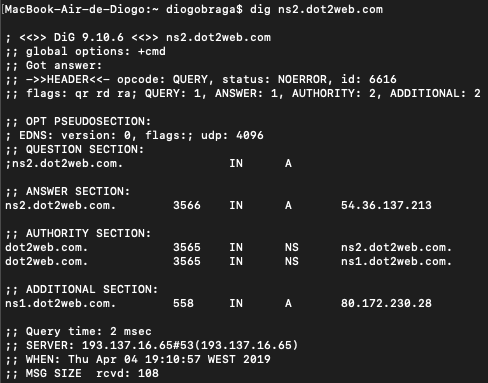
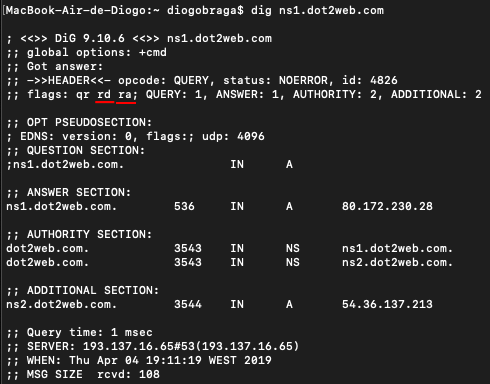
tp3 report done

diff --git a/TP3/Report/CC-TP3-PL26.tex b/TP3/Report/CC-TP3-PL26.tex
@@ -56,6 +56,8 @@ PL2, Grupo 6
 \end{figure}
 
 
+\newpage
+
 Fazendo o mesmo para o servidor \textbf{www.google.com.}, é possível verificar que também existem endereços IPv6. Estes endereços são os mesmos que os apresentados para o www.google.pt..
 
 \begin{figure}[H]
@@ -76,6 +78,9 @@ Fazendo o mesmo para o servidor \textbf{www.google.com.}, é possível verificar
 \caption{\label{fig:31}Nslookup NS \textbf{ccg.pt.}}
 \end{figure}
 
+
+\newpage
+
 Quanto ao domínio \textbf{pt.}, os nomes definidos para os servidores estão definidos dentro da secção vermelha representada na figura \ref{fig:32}.
 
 \begin{figure}[H]
@@ -84,6 +89,8 @@ Quanto ao domínio \textbf{pt.}, os nomes definidos para os servidores estão de
 \end{center}
 \caption{\label{fig:32}Nslookup NS \textbf{pt.}}
 \end{figure}
+
+\newpage
 
 Na figura \ref{fig:33} é possível concluir quais são os nomes definidos para os servidores do domínio \textbf{.}. Tais estão representados na secção vermelha.
 
@@ -94,6 +101,8 @@ Na figura \ref{fig:33} é possível concluir quais são os nomes definidos para 
 \caption{\label{fig:33}Nslookup NS \textbf{.}}
 \end{figure}
 
+
+\newpage
 
 \subsection{\textbf{Existe o domínio eureka.software.? Será que eureka.software. é um host?}}
 \textbf{R:} Como é possível verificar na figura \ref{fig:4}, as linhas verdes demonstram que existe o domínio \textbf{eureka.software.}, pois este possui resource records definidos como NS. Nesta secção estão, então, os nomes dos hosts do servidor DNS autoritativo do domínio.
@@ -113,7 +122,7 @@ Na mesma figura, a linha vermelha mostra que o \textbf{eureka.software.} também
 
 Pela figura \ref{fig:5}, é possível verificar o campo \textbf{origin}, que tem como correspondência o domínio \textbf{ns1.dot2web.com}, sendo este o definido como servidor DNS primário.
 
-Concluimos que este servidor aceita queries recursivas, pois efetuando o \textbf{dig ns1.dot2web.com}, é possível verificar a presença das flags \textbf{RD Recursion Desired} e \textbf{RA Recursion Available} na figura \ref{fig:52}, sublinhado a vermelho.
+Concluimos que este servidor aceita queries recursivas, pois efetuando o \textbf{dig ns1.dot2web.com}, é possível verificar a presença das flags \textbf{RD Recursion Desired} e \textbf{RA Recursion Available} na figura \ref{fig:521}, sublinhado a vermelho.
 
 \begin{figure}[H]
 \begin{center}
@@ -124,15 +133,23 @@ Concluimos que este servidor aceita queries recursivas, pois efetuando o \textbf
 
 \begin{figure}[H]
 \begin{center}
-\includegraphics[scale=0.6]{5_2.png}
+\includegraphics[scale=0.6]{5_1.png}
 \end{center}
-\caption{\label{fig:52}Dig \textbf{ns1.dot2web.com}}
+\caption{\label{fig:521}Dig \textbf{ns1.dot2web.com}}
 \end{figure}
 
 
-\subsection{\textbf{Obtenha uma resposta "autoritativa" para a questão anterior.}}
-\textbf{R:}
+\newpage
 
+\subsection{\textbf{Obtenha uma resposta "autoritativa" para a questão anterior.}}
+\textbf{R:} Uma resposta autoritativa, como se pode verificar na figura \ref{fig:522}, pode ser o nameserver \textbf{ns2.dot2web.com.}.
+
+\begin{figure}[H]
+\begin{center}
+\includegraphics[scale=0.6]{5_2.png}
+\end{center}
+\caption{\label{fig:522}Nslookup SOA \textbf{ami.pt.}}
+\end{figure}
 
 \subsection{\textbf{Onde são entregues as mensagens dirigidas a marcelo@presidencia.pt ? E a guterres@onu.org?}}
 \textbf{R:} Como é possível verificar na figura \ref{fig:71}, as mensagens dirigidas a marcelo@presidencia.pt serão entregues, em primeiro caso, a \textbf{mail2.presidencia.pt} e, caso este se encontre indisponível, serão entregues a \textbf{mail.presidencia.pt}. Para tal conclusão definimos o tipo \textbf{MX}, que filtra os nomes dos servidores de e-mail associados ao nome do domínio.
@@ -150,7 +167,7 @@ Por outro lado, e definindo de igual modo o tipo \textbf{MX} como filtro, as men
 
 \begin{figure}[H]
 \begin{center}
-\includegraphics[scale=0.6]{7_1.png}
+\includegraphics[scale=0.6]{7_2.png}
 \end{center}
 \caption{\label{fig:72}Nslookup MX \textbf{onu.org}}
 \end{figure}
@@ -184,7 +201,26 @@ Tendo problemas com esse endereço, é possível contactar o servidor web \textb
 
 
 \subsection{\textbf{Os secundários usam um mecanismo designado por "Transferência de zona" para se atualizarem automaticamente a partir do primário, usando os parâmetros definidos no Record do tipo SOA do domínio. Descreve sucintamente esse mecanismo com base num exemplo concreto (ex: di.uminho.pt ou o domínio cc.pt que vai ser criado na topologia virtual).}}
-\textbf{R:}
+\textbf{R:} Os servidores secundários são tidos como "backups" dos servidores primários, e como tal estes necessitam de se atualizar com o conteúdo do primário periodicamente, de forma a conterem dados consistentes. Para tal, existem alguns parâmetros definidos no Record do tipo SOA do domínio.
+
+Tendo em conta o exemplo do domínio cc.pt criado na topologia virtual, e em baixo disponibilizado em formato de imagem, é possível verificar os tais parâmetros definidos como tempo para atualização dos dados.
+
+O campo \textbf{serial} incrementa quando os dados do servidor primário são modificados, de modo que depois o servidor secundário consiga saber quando o servidor primário foi alterado e deve ser recarregado.
+
+O campo \textbf{refresh} demonstra o número de segundos entre as solicitações de atualização do servidor secundário. Neste caso, 604800 segundos = 7 dias.
+
+O campo \textbf{retry} representa o número de segundos que o servidor secundário irá esperar antes de tentar novamente quando a última tentativa falhar. Neste caso, 86400 segundos = 1 dia.
+
+O campo \textbf{expire} mostra o número de segundos que o secundário irá esperar antes de considerar os dados antigos se não conseguirem alcançar o servidor de nome principal. Neste caso, 2419200 horas = 100800 dias.
+
+Para terminar, o campo \textbf{negative cache TTL} especifica o número de segundos que um nome de domínio é armazenado em cache localmente antes da expirar e retorna aos servidores de nomes oficiais para obter informações atualizadas. Neste caso, 86400 segundos = 1 dia.
+
+\begin{figure}[H]
+\begin{center}
+\includegraphics[scale=0.6]{10.png}
+\end{center}
+\caption{\label{fig:10}\textbf{db.cc.pt}}
+\end{figure}
 
 
 \newpage
